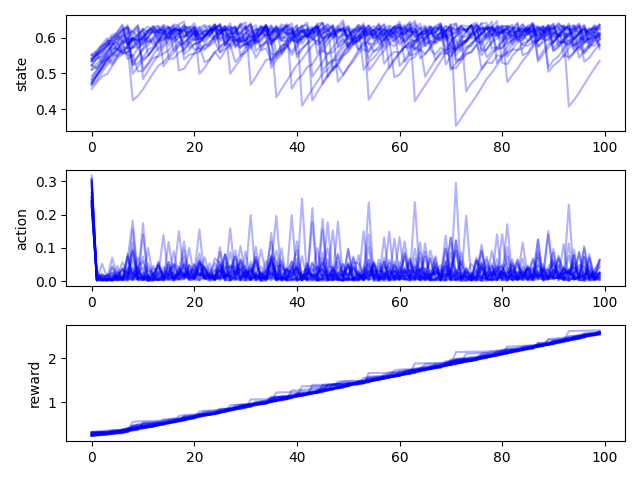
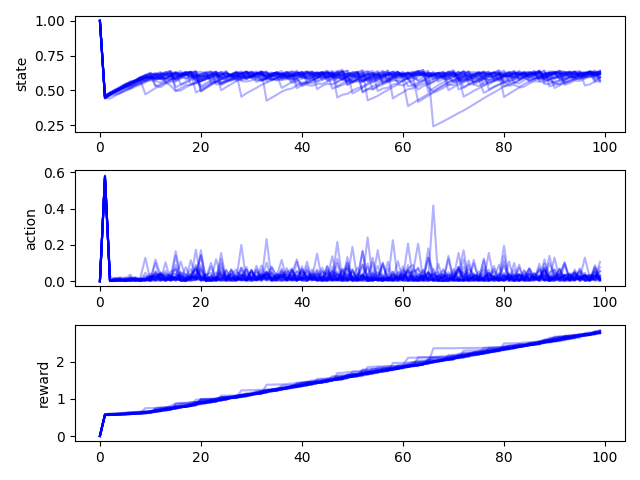
Adding general training transcript

diff --git a/fishing/sb3/train.py b/fishing/sb3/train.py
@@ -1,0 +1,63 @@
+import gym
+import gym_fishing
+import numpy as np
+import torch as th
+import yaml
+import argparse
+
+from stable_baselines3.sac.policies import SACPolicy
+from stable_baselines3 import A2C, DDPG, DQN, PPO, SAC, TD3
+from stable_baselines3.common.noise import NormalActionNoise
+
+from utils import StoreDict, ALGOS
+
+if __name__=="__main__":
+    parser = argparse.ArgumentParser()
+    parser.add_argument("-a", "--algo", default="sac", type=str,
+                        help="Specify which of the algorithms to use")
+    parser.add_argument("-s", "--seed", default=0, type=int,
+                        help="Select the seed")
+    parser.add_argument("-v", "--verbose", default=2, type=int,
+                        help="Verbosity option when training")
+    parser.add_argument("-n", "--n_timesteps", default=int(3e5), type=int,
+                        help="Number of timesteps used for training")
+    parser.add_argument("-e", "--env", default="fishing-v1", type=str,
+                        help="Select which environment to use")
+    parser.add_argument(
+        "--env-kwargs", type=str, nargs="+", action=StoreDict, default={},
+           help="Optional keyword argument to pass to the env constructor")
+    parser.add_argument("-l", "--log", default=1000, type=int,
+                        help="Specify the logging interval when trainig")
+    parser.add_argument("--fn", default="sac", type=str,
+                        help="Select a filename to save the model to")
+    args = parser.parse_args()
+
+    with open(f"hyperparams/{args.algo}.yml", "r") as f:
+        hyperparams_dict = yaml.safe_load(f) 
+        hyperparams = hyperparams_dict[args.env]
+
+    if "policy_kwargs" in hyperparams.keys():
+        # Convert to python object if needed
+        if isinstance(hyperparams["policy_kwargs"], str):
+            hyperparams["policy_kwargs"] = eval(hyperparams["policy_kwargs"])
+    
+
+    env = gym.make(args.env, **args.env_kwargs)
+
+    model = ALGOS[args.algo](
+                "MlpPolicy", 
+                env=env, 
+                seed=args.seed, 
+                verbose=args.verbose, 
+                **hyperparams)
+
+    try:
+        model.learn(args.n_timesteps, log_interval=args.log)
+        #model.save("models/" + args.fn)
+    except KeyboardInterrupt:
+        pass
+    finally:
+        # Release resources
+        env.close()
+
+

diff --git a/fishing/sb3/utils.py b/fishing/sb3/utils.py
@@ -1,0 +1,24 @@
+import argparse
+from stable_baselines3 import A2C, DDPG, DQN, PPO, SAC, TD3
+
+ALGOS = {"a2c": A2C, "ddpg": DDPG, "dqn": DQN, "ppo": PPO, "sac": SAC, "td3": TD3}
+
+class StoreDict(argparse.Action):
+    """
+    Custom argparse action for storing dict.
+    In: args1:0.0 args2:"dict(a=1)"
+    Out: {'args1': 0.0, arg2: dict(a=1)}
+    """
+
+    def __init__(self, option_strings, dest, nargs=None, **kwargs):
+        self._nargs = nargs
+        super(StoreDict, self).__init__(option_strings, dest, nargs=nargs, **kwargs)
+
+    def __call__(self, parser, namespace, values, option_string=None):
+        arg_dict = {}
+        for arguments in values:
+            key = arguments.split(":")[0]
+            value = ":".join(arguments.split(":")[1:])
+            # Evaluate the string as python code
+            arg_dict[key] = eval(value)
+        setattr(namespace, self.dest, arg_dict)

diff --git a/fishing/sb3/plot2.py b/fishing/sb3/plot2.py
@@ -3,7 +3,7 @@ import gym_fishing
 from stable_baselines3 import SAC
 import numpy as np
 
-env = gym.make('fishing-v1', r = 0.1)
+env = gym.make('fishing-v1', r = 0.1, init_state=1.0)
 for i in range(5):
     model = SAC.load(f"models/sb3_sac_"+str(i))
 
